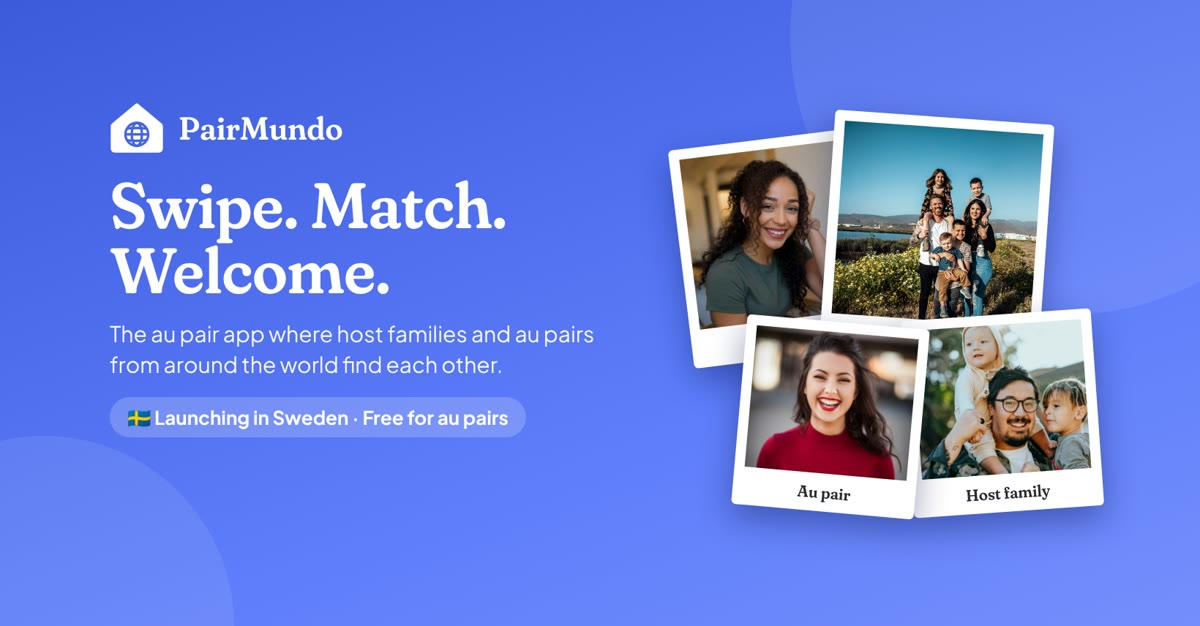
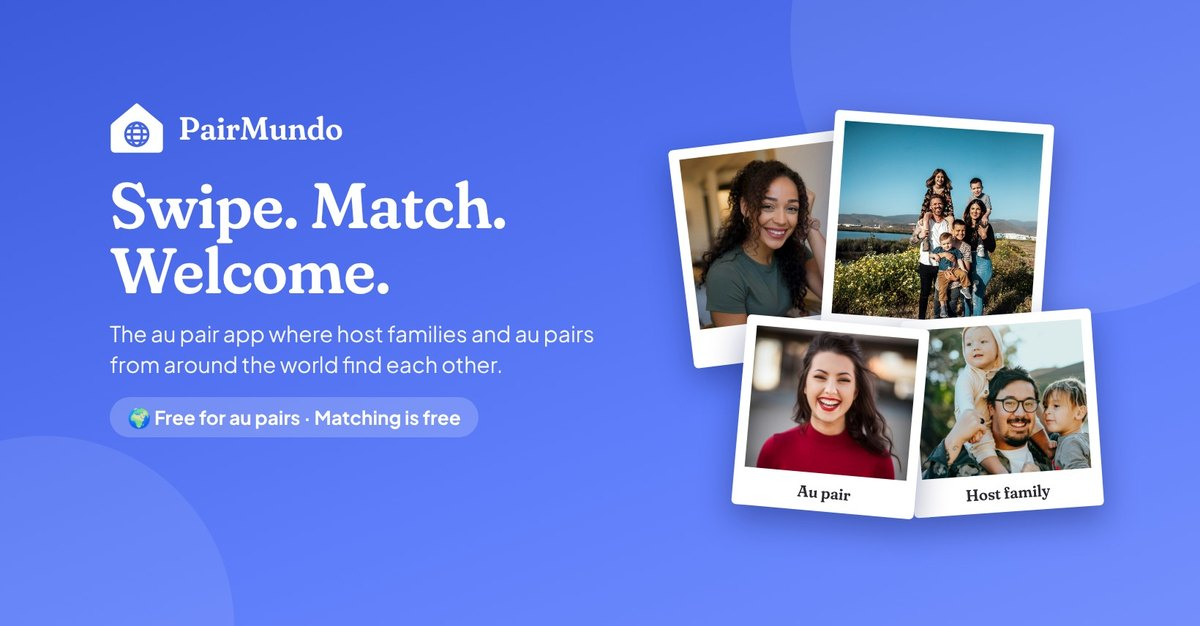
Landing page: photo collage around the phone, warm accents, compact feature tiles on phones
The hero now shows the same au pairs and families as the link-preview image,
as polaroids around the app phone. Below the hero, steps and feature tiles get
coral, sun, mint, sky and lilac accents, How it works sits in a warm band, and
the eight features show as two compact columns on phones.

The link-preview image no longer says Launching in Sweden, which was
confusing people; og:image gets a version so shared links pick up the new
one, and twitter:image is set too.

Claude-Session: https://claude.ai/code/session_01HXmLkZPUvptAC4VyBP5B9F

Changed region(s): [[0.0925, 0.6374, 0.4625, 0.6981]]

diff --git a/server/public/styles.css b/server/public/styles.css
@@ -344,3 +344,65 @@ body { overflow-x: clip; }
 .hero .btn.secondary { background: transparent; color: #fff; border-color: rgba(255, 255, 255, .7); }
 .hero .muted { color: rgba(255, 255, 255, .8) !important; }
 .hero .phone { background: #1a1d2b; box-shadow: 0 30px 60px -20px rgba(15, 25, 80, .55); }
+
+/* Landing: photo collage around the phone (the same people as the link-preview image), warm accents below the hero */
+:root { --coral: #ff6b5e; --coral-soft: #ffe9e5; --sun: #ffb400; --sun-soft: #fff3d1; --mint: #12b886; --mint-soft: #ddf7ec;
+  --sky: #3fa9f5; --sky-soft: #e1f2fe; --lilac: #9c6ade; --lilac-soft: #f1e8fd; }
+.hero-visual { position: relative; width: min(100%, 360px); display: flex; justify-content: center; padding: 18px 0; }
+.hero-visual .phone { position: relative; z-index: 2; width: 210px; }
+.pol { position: absolute; z-index: 1; margin: 0; width: 112px; padding: 6px 6px 22px; background: #fff; border-radius: 6px;
+  box-shadow: 0 14px 30px -8px rgba(10, 20, 80, .45); animation: pol-in .7s cubic-bezier(.2, .8, .2, 1.2) both; }
+.pol img { display: block; width: 100%; height: auto; aspect-ratio: 9 / 10; object-fit: cover; border-radius: 2px; background: var(--brand-soft); }
+.pol figcaption { position: absolute; left: 0; right: 0; bottom: 3px; text-align: center; color: var(--ink); font-family: var(--heading); font-size: .72rem; }
+.pol-1 { left: 0; top: 6%; --r: -8deg; animation-delay: .1s; }
+.pol-2 { right: 0; top: 2%; --r: 6deg; animation-delay: .2s; }
+.pol-3 { left: 4px; bottom: 10%; --r: 5deg; animation-delay: .3s; }
+.pol-3 figcaption { text-align: left; padding-left: 8px; }
+.pol-4 { right: 0; bottom: 16%; --r: -5deg; animation-delay: .4s; }
+.pol-4 figcaption { text-align: right; padding-right: 8px; }
+.pol { transform: rotate(var(--r)); }
+@keyframes pol-in { from { opacity: 0; transform: translateY(18px) rotate(0deg) scale(.9); } to { opacity: 1; transform: rotate(var(--r)); } }
+@media (prefers-reduced-motion: reduce) { .pol { animation: none; } }
+@media (min-width: 900px) {
+  .hero-visual { width: 440px; padding: 0; }
+  .hero-visual .phone { width: 260px; }
+  .pol { width: 140px; padding: 8px 8px 30px; }
+  .pol figcaption { font-size: .9rem; bottom: 5px; }
+}
+/* A warm glow behind the hero text, so the blue doesn't feel flat */
+.hero { background: radial-gradient(60% 70% at 85% 110%, rgba(255, 140, 120, .45), transparent 70%),
+  radial-gradient(40% 50% at 0% 0%, rgba(140, 200, 255, .35), transparent 70%), linear-gradient(160deg, #3d5cdb 0%, #4f6deb 45%, #6886f8 100%); }
+.hero .chip { background: rgba(255, 255, 255, .2); font-weight: 600; }
+.hero .btn:not(.secondary) { background: var(--sun); color: #2b2a33; border-color: var(--sun); box-shadow: 0 8px 20px -8px rgba(255, 180, 0, .8); }
+.hero .btn:not(.secondary):hover { background: #ffc233; }
+
+/* Full-width colored band for "How it works" */
+.band { margin: 40px calc(50% - 50vw) 8px; padding: 40px max(16px, calc(50vw - 544px)); }
+.band h2 { margin: 0 0 20px; }
+.band-warm { background: linear-gradient(180deg, #fff4e8 0%, #ffeef0 100%); }
+.band .card { border-color: transparent; box-shadow: 0 10px 30px -18px rgba(180, 80, 60, .45); }
+.steps .card:nth-child(1) .step-n { background: var(--coral); }
+.steps .card:nth-child(2) .step-n { background: var(--sun); color: #2b2a33; }
+.steps .card:nth-child(3) .step-n { background: var(--mint); }
+
+/* Feature tiles: each icon on its own color */
+.features .icon { width: 48px; height: 48px; border-radius: 14px; display: flex; align-items: center; justify-content: center; font-size: 1.5rem; margin-bottom: 10px; }
+.features .card { border-top: 4px solid var(--c, var(--brand)); }
+.features .card:nth-child(5n+1) { --c: var(--coral); } .features .card:nth-child(5n+1) .icon { background: var(--coral-soft); }
+.features .card:nth-child(5n+2) { --c: var(--sun); } .features .card:nth-child(5n+2) .icon { background: var(--sun-soft); }
+.features .card:nth-child(5n+3) { --c: var(--mint); } .features .card:nth-child(5n+3) .icon { background: var(--mint-soft); }
+.features .card:nth-child(5n+4) { --c: var(--sky); } .features .card:nth-child(5n+4) .icon { background: var(--sky-soft); }
+.features .card:nth-child(5n+5) { --c: var(--lilac); } .features .card:nth-child(5n+5) .icon { background: var(--lilac-soft); }
+@media (min-width: 1000px) { .features { grid-template-columns: repeat(4, 1fr); } }
+/* On phones, two compact columns instead of one long list */
+@media (max-width: 600px) {
+  .features { grid-template-columns: 1fr 1fr; gap: 10px; }
+  .features .card { padding: 14px 12px; margin: 0; }
+  .features .icon { width: 40px; height: 40px; font-size: 1.25rem; border-radius: 12px; }
+  .features h3 { font-size: 1rem; }
+  .features p { font-size: .82rem; line-height: 1.4; margin: 0; }
+  .band { padding-top: 32px; padding-bottom: 32px; }
+  .steps { gap: 12px; } .steps .card { margin: 0; }
+}
+.wait-card { border: 0; box-shadow: 0 16px 40px -24px rgba(59, 91, 219, .55); background: linear-gradient(#fff, #fff) padding-box,
+  linear-gradient(120deg, var(--coral), var(--sun), var(--mint), var(--brand)) border-box; border: 2px solid transparent; }

diff --git a/server/public/app.js b/server/public/app.js
@@ -487,18 +487,22 @@ function landing() {
       <a class="btn secondary" href="#/register?role=aupair">${tr('I want to be an au pair')}</a>
       <a class="btn secondary" href="#/agency-signup">${tr("I'm an au pair agency")}</a></div>
       <p class="small muted" style="margin-top:12px">${tr('Free for au pairs. Swiping and matching are free for everyone.')}</p></div>
-      <div class="phone" aria-hidden="true"><video id="heroLoop" muted loop playsinline preload="none" poster="/media/hero-loop-poster.webp" width="540" height="1170"></video></div>
+      <div class="hero-visual" aria-hidden="true">
+        ${[['nolan', ''], ['josue', ''], ['dam', tr('Au pair')], ['nathan', tr('Host family')]].map(([n, label], i) => `<figure class="pol pol-${i + 1}">
+          <img src="/media/hero-${n}.webp" alt="" width="360" height="400" decoding="async">${label ? `<figcaption>${label}</figcaption>` : ''}</figure>`).join('')}
+        <div class="phone"><video id="heroLoop" muted loop playsinline preload="none" poster="/media/hero-loop-poster.webp" width="540" height="1170"></video></div>
+      </div>
     </section>
     <section class="card wait-card"><div id="invited"></div><h2>${tr('Be the first to get the app')}</h2>
       <p class="muted">${tr("Leave your email and we'll tell you the day PairMundo arrives on the App Store and Google Play. No spam, and you can leave the list anytime.")}</p>
       <div id="earlyOffer"></div>${waitForm('wait1')}<div id="waitMsg1"></div></section>
-    <h2 class="center" style="margin:36px 0 16px">${tr('How it works')}</h2>
+    <section class="band band-warm"><h2 class="center">${tr('How it works')}</h2>
     <div class="grid steps">${[['1', tr('Create your profile'), tr('Add photos, languages, dates and what you are looking for. It takes about ten minutes.')],
     ['2', tr('Swipe and match'), tr('Like the profiles that fit. When the feeling is mutual, chat opens and you can get to know each other.')],
     ['3', tr('Plan the placement'), tr('Agree on dates, hours and pocket money. PairMundo checks them against the country rules and keeps a checklist for both of you.')]]
-    .map(([n, t, d]) => `<div class="card feature"><div class="step-n">${n}</div><h3>${t}</h3><p class="muted">${d}</p></div>`).join('')}</div>
+    .map(([n, t, d]) => `<div class="card feature"><div class="step-n">${n}</div><h3>${t}</h3><p class="muted">${d}</p></div>`).join('')}</div></section>
     <h2 class="center" style="margin:36px 0 16px">${tr('Why families and au pairs choose PairMundo')}</h2>
-    <div class="grid">
+    <div class="grid features">
       ${[['🔥', tr('Swipe to match'), tr("Swipe right to like, left to pass, up to super like. When you both like each other it's a match.")],
     ['🎯', tr('Smart matching'), tr('A match score that weighs languages, dates, childcare experience, destination wishes and program eligibility, with the reasons shown.')],
     ['⭐', tr('Two-way reviews'), tr('Families and au pairs rate each other after a real placement. Reviews stay hidden until both sides submit, so they are honest.')],

diff --git a/server/public/index.html b/server/public/index.html
@@ -10,11 +10,12 @@
   <meta property="og:url" content="https://pairmundo.com/">
   <meta property="og:title" content="PairMundo: Swipe. Match. Welcome your au pair.">
   <meta property="og:description" content="The au pair app where host families and au pairs from around the world find each other. Free for au pairs.">
-  <meta property="og:image" content="https://pairmundo.com/media/share-preview.jpg">
+  <meta property="og:image" content="https://pairmundo.com/media/share-preview.jpg?v=2">
   <meta property="og:image:width" content="1200">
   <meta property="og:image:height" content="626">
   <meta property="og:image:alt" content="PairMundo: Swipe. Match. Welcome. Photos of au pairs and host families.">
   <meta name="twitter:card" content="summary_large_image">
+  <meta name="twitter:image" content="https://pairmundo.com/media/share-preview.jpg?v=2">
   <link rel="stylesheet" href="/styles.css">
   <link rel="icon" href="/logo.svg" type="image/svg+xml">
 </head>
